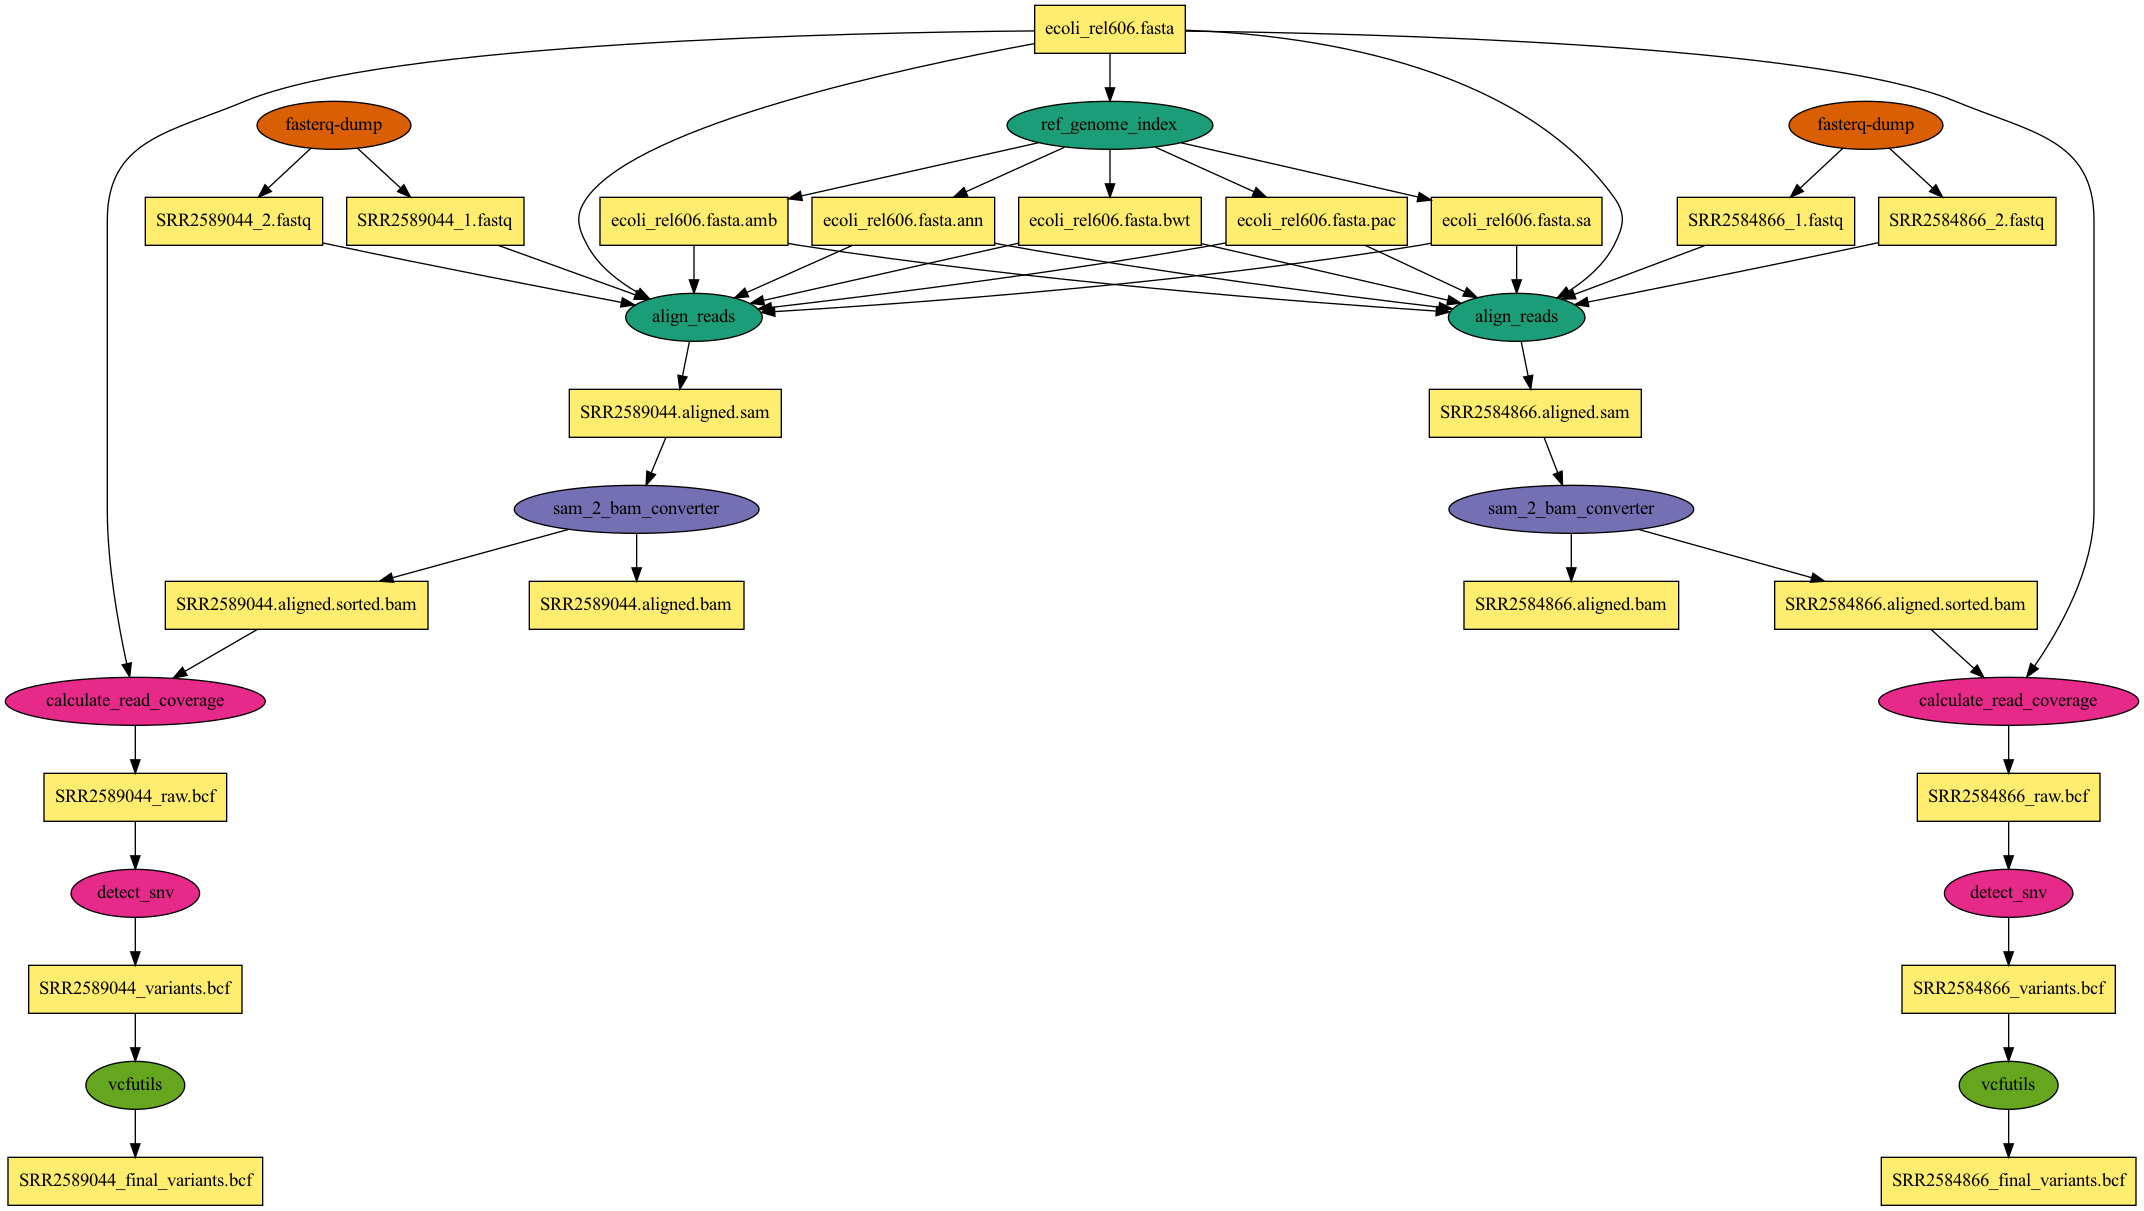
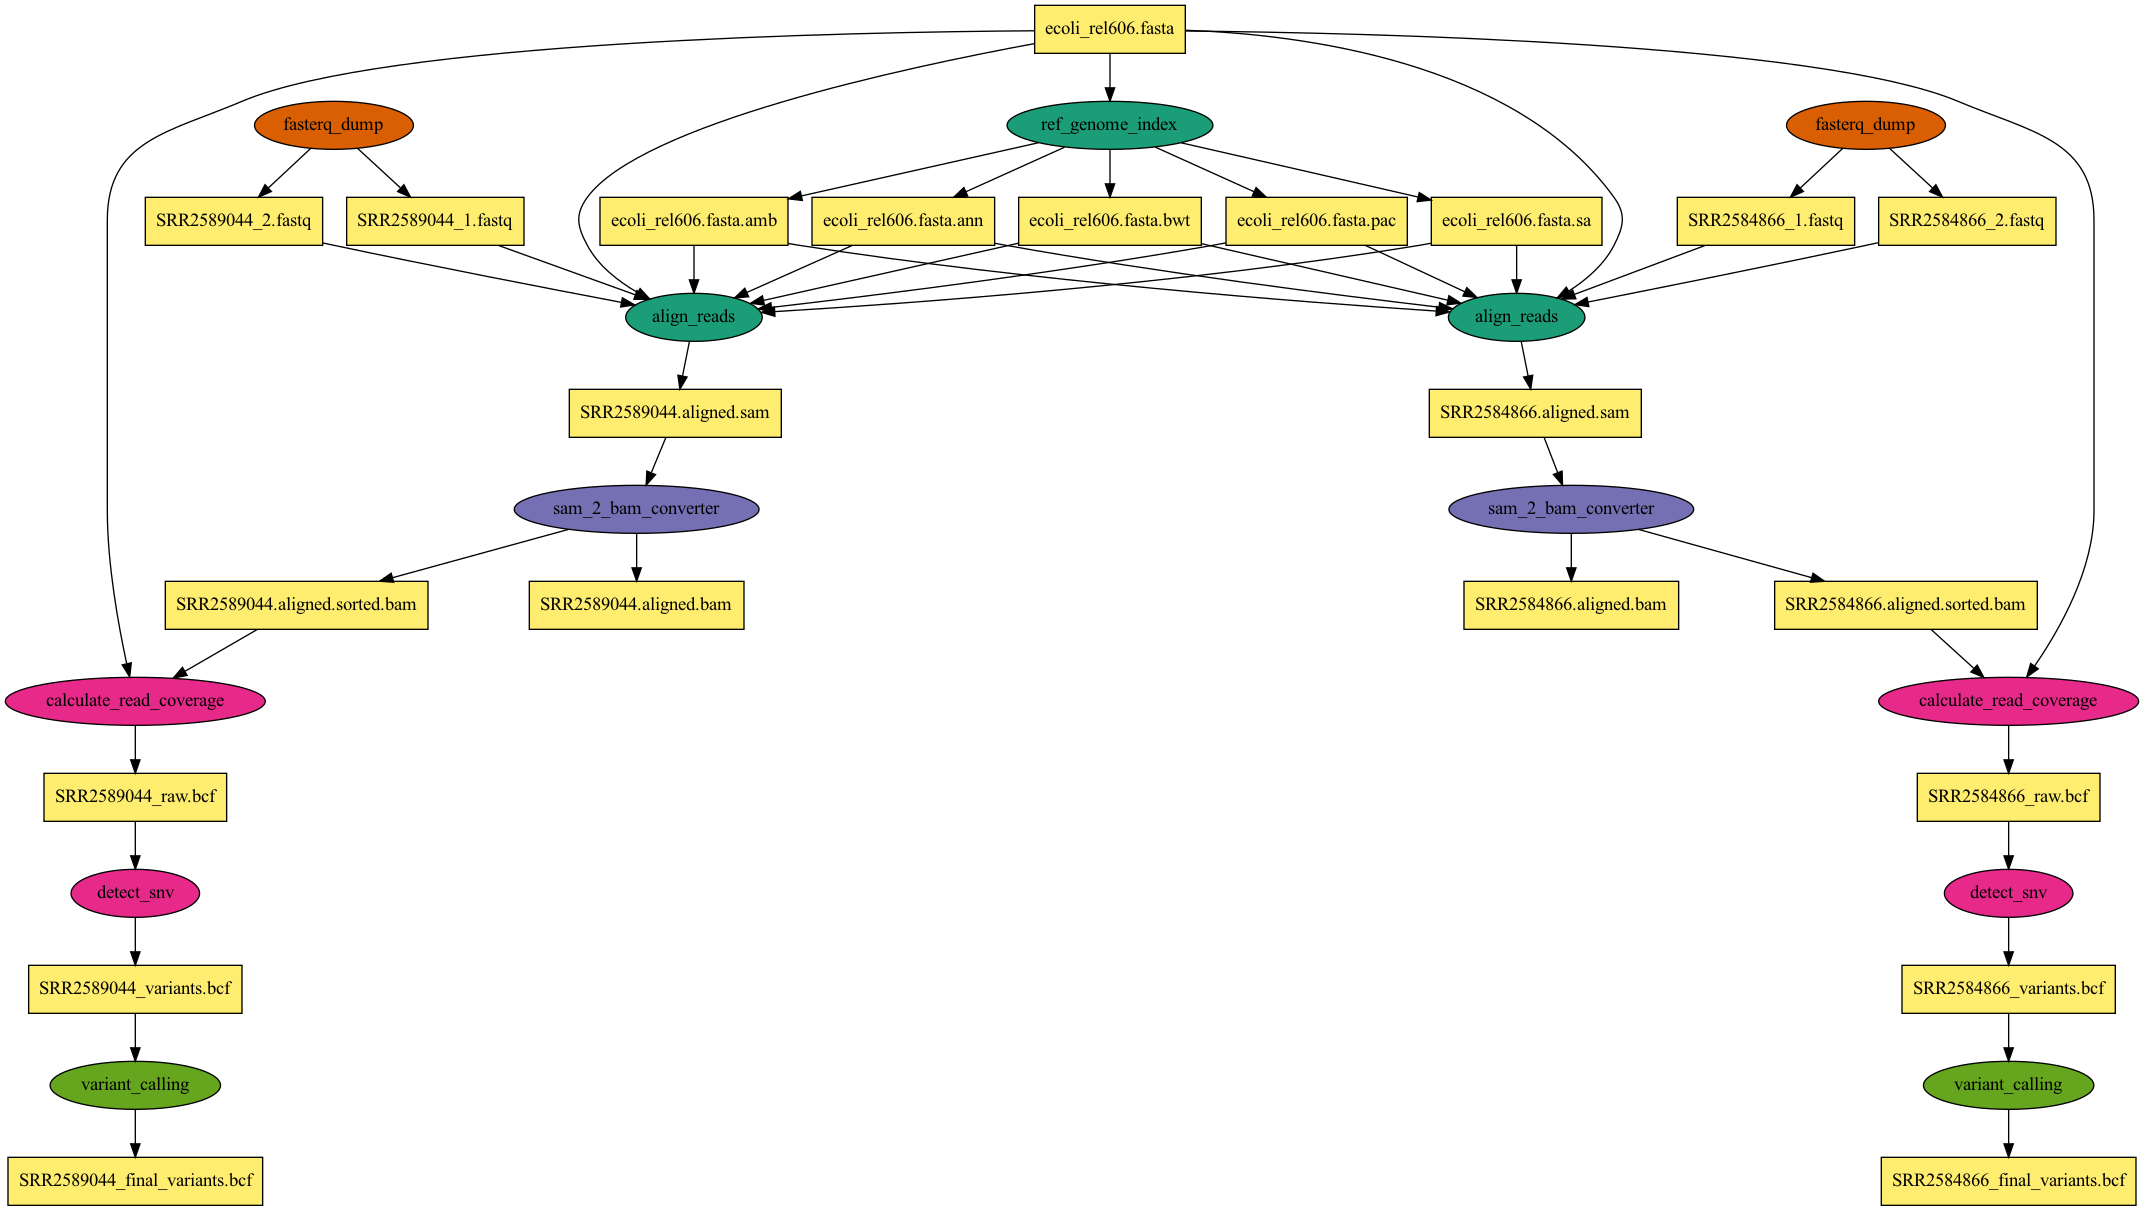
updated labels for jobs

diff --git a/variant-calling.py b/variant-calling.py
@@ -203,7 +203,7 @@ def generate_wf():
         fastq_2 = File('{}_2.fastq'.format(sra_id))
 
         # download job
-        j = Job('fasterq-dump', node_label="fasterq-dump")
+        j = Job('fasterq-dump', node_label="fasterq_dump")
         j.add_args('--split-files', sra_id)
         j.add_outputs(fastq_1, fastq_2, stage_out=False)
         wf.add_jobs(j)
@@ -238,7 +238,7 @@ def generate_wf():
         wf.add_jobs(j)
 
         # vcfutils Filter and report the SNV variants in variant calling format (VCF)
-        j = Job('vcfutils', node_label="vcfutils")
+        j = Job('vcfutils', node_label="variant_calling")
         j.add_args('varFilter', variants)
         j.add_inputs(variants)
         j.set_stdout(final_variants, stage_out=True)
